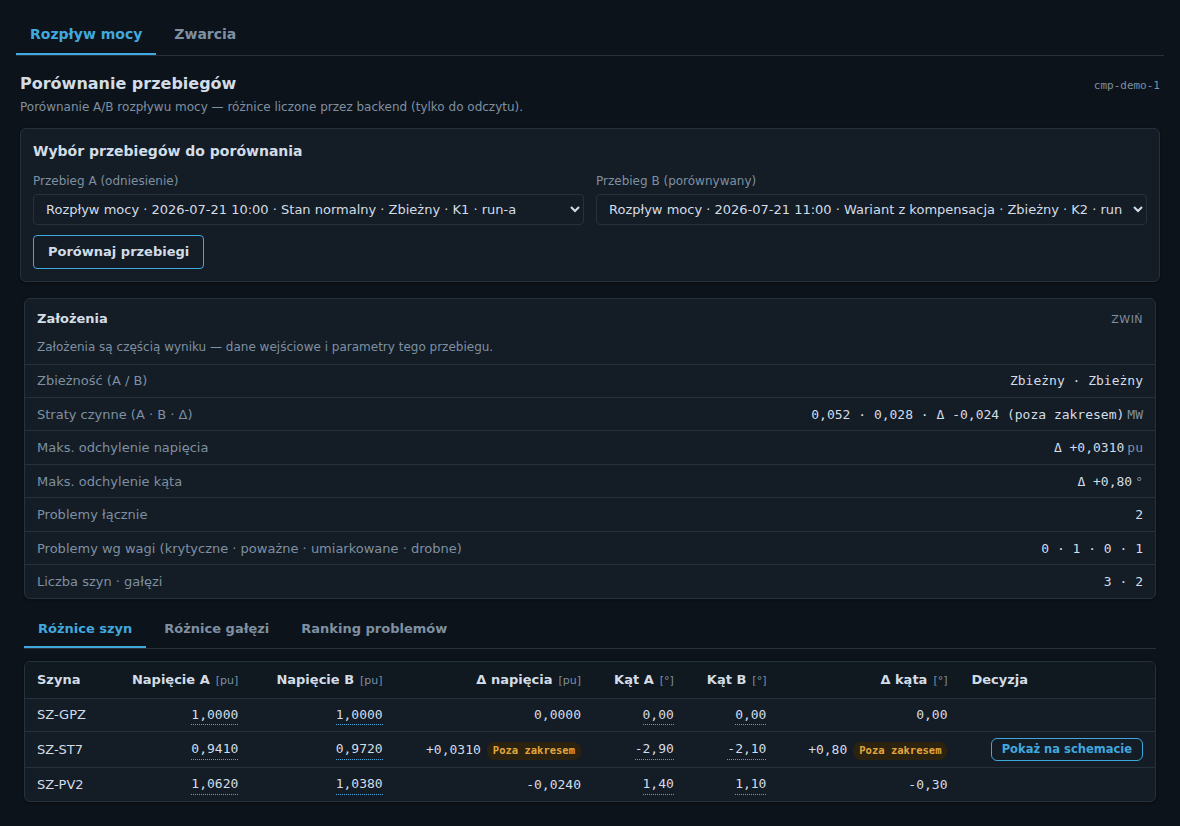
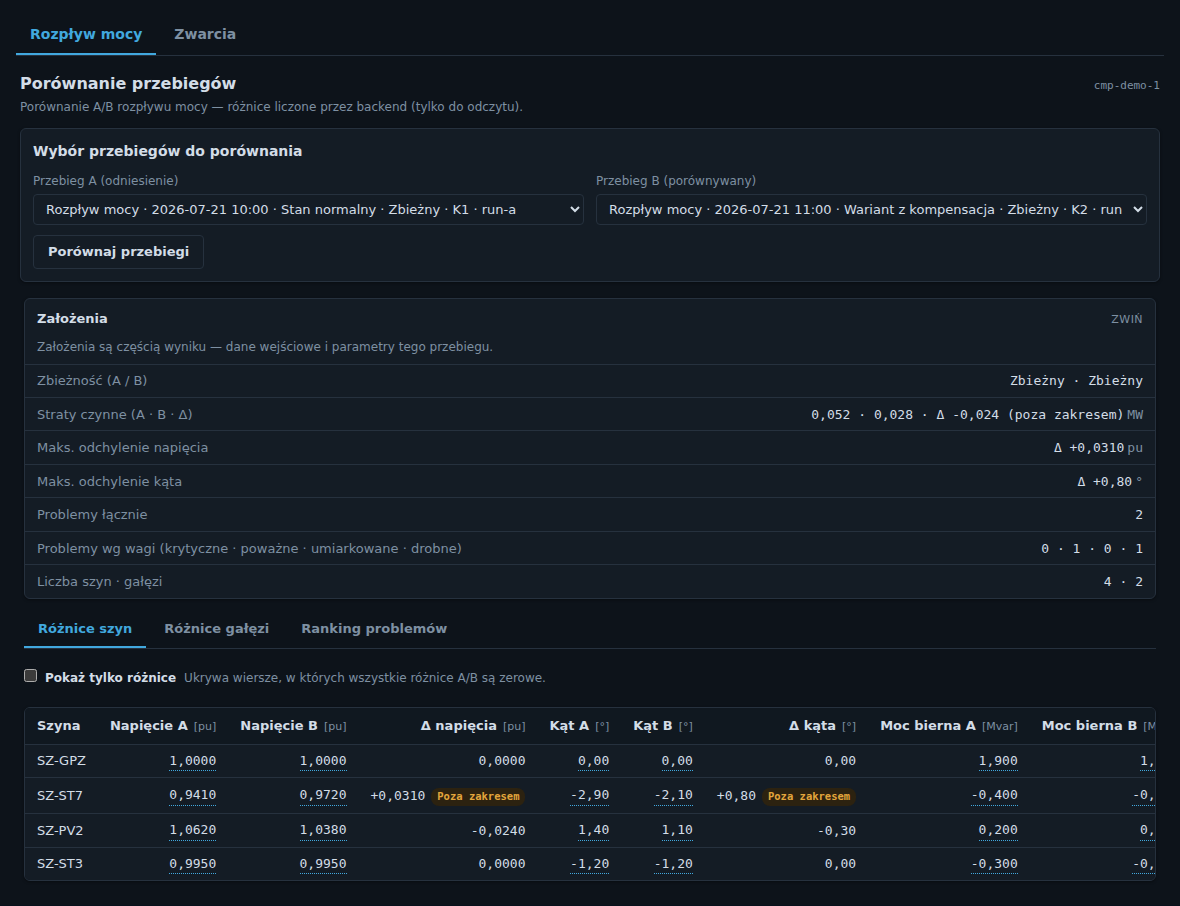
KD-1 (bramki): specy e2e, zrzuty do oceny + naprawa sceny integracyjnej powloki
Bramka 1 — `e2e/gotowosc-jedna-prawda.spec.ts` (real backend, kliki natywne):
lacznik normalnie otwarty odcina ciag od zrodla => blokada E003 wskazujaca SZYNY
=> drzewo topologii pokazuje NIEZEROWY licznik na tej samej szynie, chrom i panel
gotowosci licza DOKLADNIE tyle blokad co serwer; po zamknieciu lacznika licznik
znika, a chrom przestaje liczyc blokady (obie prawdy ida razem).
Scenariusz ZMIERZONY na zywym backendzie (sonda), nie zgadniety: segment bez
katalogu jest odrzucany (422), a blokady katalogowe wskazuja galezie — nie
szyny — wiec nie trafialyby na wezly drzewa.

Bramka 2 — `e2e/projekty-parytet.spec.ts`: wlasna nazwa i opis -> odswiez ->
zmiana projektu z potwierdzeniem -> usuniecie z potwierdzeniem, z asercjami
PRZEZ API. Sprawdzane sa OBIE sciezki kasacji zgodnie z kontraktem backendu:
projekt z przypadkiem daje 409 i UI pokazuje uczciwy powod serwera (projekt
ZOSTAJE), projekt bez zaleznosci znika z backendu.

Bramka 5 — zrzuty ZYWEJ aplikacji w obu motywach:
`gotowosc-drzewo-{dark,light}.png` (drzewo z licznikiem blokad na wezle),
`porownanie-q-{dark,light}.png` (kolumny mocy biernej + wlaczony filtr
„Pokaz tylko roznice" ukrywajacy szyne bez roznic). Do sceny „porownanie"
harnessu dolozono szyne SZ-ST3 z ZEROWYMI deltami — bez niej filtr nie mialby
czego ukryc (fixture opisuje realny ksztalt payloadu backendu).

Zero-Debt (defekt sceny odsloniety przez KD-1): `ui2/__tests__/integracja.test.tsx`
[…]

diff --git a/mv-design-pro/frontend/e2e/gotowosc-jedna-prawda.spec.ts b/mv-design-pro/frontend/e2e/gotowosc-jedna-prawda.spec.ts
@@ -44,7 +44,18 @@ type DomainOpResponse = {
 type ReadinessResponse = {
   ready: boolean;
   by_severity?: Record<string, number>;
-  issues?: Array<{ code: string; element_ref?: string | null; severity?: string }>;
+  issues?: Array<{
+    code: string;
+    element_ref?: string | null;
+    element_refs?: string[];
+    severity?: string;
+  }>;
+};
+
+type TopologySummary = {
+  spine?: Array<{ bus_ref: string }>;
+  lateral_roots?: string[];
+  adjacency?: Array<{ bus_ref: string; neighbor_ref: string }>;
 };
 
 function buildCatalogBinding(catalogNamespace: string, catalogItemId: string) {
@@ -150,7 +161,11 @@ async function otworzPowlokeZKontekstem(
   }, seed);
 
   await page.goto('/', { waitUntil: 'commit' });
-  await page.waitForSelector('[data-testid="app-ready"]', { state: 'attached', timeout: 30000 });
+  // 90 s: PIERWSZE wejscie w biegu uruchamia zimny transform vite dev calego
+  // grafu modulow (zmierzone na tym kontenerze: >30 s, kolejne wejscia ~2 s).
+  // To budzet rozruchu narzedzia, nie asercja produktu — asercje maja wlasne,
+  // krotkie limity, wiec realne zwisy UI nadal sa lapane.
+  await page.waitForSelector('[data-testid="app-ready"]', { state: 'attached', timeout: 90000 });
 }
 
 async function przeladujPowloke(page: Page): Promise<void> {
@@ -181,6 +196,34 @@ function blokadySerwera(gotowosc: ReadinessResponse): number {
   return gotowosc.by_severity?.BLOCKER ?? 0;
 }
 
+/** Szyny widoczne w drzewie topologii (te same, na których siadają liczniki). */
+async function szynyDrzewa(request: APIRequestContext, caseId: string): Promise<Set<string>> {
+  const response = await request.get(`${BACKEND_BASE}/api/cases/${caseId}/enm/topology/summary`);
+  expect(response.ok()).toBeTruthy();
+  const summary = (await response.json()) as TopologySummary;
+  const refy = new Set<string>();
+  for (const wezel of summary.spine ?? []) refy.add(wezel.bus_ref);
+  for (const ref of summary.lateral_roots ?? []) refy.add(ref);
+  for (const wpis of summary.adjacency ?? []) {
+    refy.add(wpis.bus_ref);
+    refy.add(wpis.neighbor_ref);
+  }
+  return refy;
+}
+
+/**
+ * Rozwija grupy drzewa topologii („Magistrala (od GPZ)", „Węzły izolowane") —
+ * liczniki siedza na WEZLACH, wiec bez rozwiniecia nie sa wyrenderowane.
+ * Klik w chevron = ta sama kontrolka, ktorej uzywa inzynier (klik natywny).
+ */
+async function rozwinGrupyDrzewa(page: Page): Promise<void> {
+  for (const grupa of ['magistrala', 'izolowane']) {
+    const chevron = page.getByTestId(`mvd-tree-chevron-${grupa}`);
+    if ((await chevron.count()) === 0) continue;
+    if ((await chevron.textContent())?.includes('▸')) await chevron.click();
+  }
+}
+
 test('drzewo topologii i panel gotowości pokazują TĘ SAMĄ blokadę — i gasną razem po naprawie', async ({
   page,
   request,
@@ -190,64 +233,93 @@ test('drzewo topologii i panel gotowości pokazują TĘ SAMĄ blokadę — i gas
   const seed = await createProjectAndCase(request);
   await otworzPowlokeZKontekstem(page, seed);
 
-  // --- Sieć Z BLOKADĄ: odcinki bez przypisanego typu katalogowego ------------
+  // --- Sieć gotowa: GPZ + dwa odcinki katalogowe ----------------------------
   await executeDomainOp(request, seed.caseId, 'add_grid_source_sn', {
     voltage_kv: 15.0,
     sk3_mva: 250.0,
     rx_ratio: 0.1,
     catalog_binding: buildCatalogBinding('ZRODLO_SN', SOURCE_ID),
   });
-  const op = await executeDomainOp(request, seed.caseId, 'continue_trunk_segment_sn', {
-    segment: { rodzaj: 'KABEL', dlugosc_m: 300, name: 'Odcinek 1' },
-  });
-  const segmenty = op.snapshot?.corridors?.[0]?.ordered_segment_refs ?? [];
-  expect(segmenty.length).toBeGreaterThan(0);
+  let op: DomainOpResponse | null = null;
+  for (const [idx, dlugosc] of [300, 250].entries()) {
+    op = await executeDomainOp(request, seed.caseId, 'continue_trunk_segment_sn', {
+      segment: {
+        rodzaj: 'KABEL',
+        dlugosc_m: dlugosc,
+        name: `Odcinek ${idx + 1}`,
+        catalog_binding: buildCatalogBinding('KABEL_SN', CABLE_ID),
+      },
+    });
+  }
+  const segmenty = op?.snapshot?.corridors?.[0]?.ordered_segment_refs ?? [];
+  expect(segmenty.length).toBeGreaterThan(1);
 
-  // ŹRÓDŁO 1 (serwer): gotowość ma blokady, w tym blokady konkretnych elementów.
+  // --- BLOKADA GOTOWOŚCI: łącznik normalnie otwarty odcina ciąg od źródła ---
+  // (realna sytuacja projektowa: NOP na pierwszym odcinku ⇒ wyspa bez zasilania,
+  // walidator zwraca blokadę E003 wskazującą SZYNY — czyli węzły drzewa.)
+  await executeDomainOp(request, seed.caseId, 'set_normal_open_point', {
+    switch_ref: segmenty[0],
+  });
+
+  // ŹRÓDŁO 1 (serwer): blokada istnieje i wskazuje szyny obecne w drzewie.
   const gotowoscPrzed = await pobierzGotowosc(request, seed.caseId);
   expect(gotowoscPrzed.ready).toBe(false);
   expect(blokadySerwera(gotowoscPrzed)).toBeGreaterThan(0);
-  const blokadyZElementem = (gotowoscPrzed.issues ?? []).filter(
-    (i) => i.severity === 'BLOCKER' && i.element_ref,
-  );
-  expect(blokadyZElementem.length).toBeGreaterThan(0);
+
+  const szyny = await szynyDrzewa(request, seed.caseId);
+  const blokadyNaSzynach = new Set<string>();
+  for (const issue of gotowoscPrzed.issues ?? []) {
+    if (issue.severity !== 'BLOCKER') continue;
+    for (const ref of [issue.element_ref, ...(issue.element_refs ?? [])]) {
+      if (ref && szyny.has(ref)) blokadyNaSzynach.add(ref);
+    }
+  }
+  expect(blokadyNaSzynach.size).toBeGreaterThan(0);
 
   await przeladujPowloke(page);
 
-  // ŹRÓDŁO 2 (drzewo topologii przestrzeni „Model") — licznik NIEZEROWY.
+  // ŹRÓDŁO 2 (drzewo topologii przestrzeni „Model") — licznik NIEZEROWY na tej
+  // samej szynie, o której mówi serwer. Przed KD-1 badge NIE POJAWIAL sie nigdy.
   await page.getByRole('button', { name: /^Model sieci \d$/ }).click();
-  const badge = page.locator('[data-testid^="mvd-tree-badge-"]');
-  await expect(badge.first()).toBeVisible({ timeout: 20000 });
-  const liczbaWDrzewie = await badge.count();
-  expect(liczbaWDrzewie).toBeGreaterThan(0);
+  await rozwinGrupyDrzewa(page);
+  const pierwszaSzyna = [...blokadyNaSzynach].sort()[0];
+  const badge = page.getByTestId(`mvd-tree-badge-${pierwszaSzyna}`);
+  await expect(badge).toBeVisible({ timeout: 20000 });
+  // Jeden problem = JEDEN wpis (regresja podwojnego liczenia element_ref/element_refs).
+  await expect(badge.locator('.mvd-tree-badge-blokady')).toHaveText('1');
 
-  // ŹRÓDŁO 3 (panel gotowości) — ta sama liczba blokad co u serwera.
-  await page.getByRole('button', { name: /^Gotowość \d$/ }).click();
+  // ŹRÓDŁO 3 (chrom powłoki) — ta sama liczba blokad co u serwera.
   await expect(page.getByTestId('mvd-casebar-readiness')).toContainText(
     String(blokadySerwera(gotowoscPrzed)),
   );
+
+  // Zrzut do oceny właściciela: DRZEWO topologii z licznikiem blokad na węźle
+  // (przed KD-1 ten znacznik nie pojawiał się nigdy — liczniki były zerowe).
   await zrzutObuMotywow(page, 'gotowosc-drzewo');
 
-  // --- NAPRAWA blokady: przypisanie typu katalogowego odcinkom ---------------
-  for (const issue of blokadyZElementem) {
-    await executeDomainOp(request, seed.caseId, 'assign_catalog_to_element', {
-      element_ref: issue.element_ref,
-      catalog_binding: buildCatalogBinding('KABEL_SN', CABLE_ID),
-    });
-  }
+  // ŹRÓDŁO 4 (panel gotowości) — liczy DOKŁADNIE tyle blokad co serwer.
+  await page.getByRole('button', { name: /^Gotowość \d$/ }).click();
+  await expect(page.getByTestId('mvd-gotowosc-panel')).toBeVisible({ timeout: 20000 });
+  await expect(page.getByTestId('mvd-gotowosc-blokady-calkowite')).toHaveText(
+    String(blokadySerwera(gotowoscPrzed)),
+  );
+
+  // --- NAPRAWA blokady: zamkniecie lacznika przywraca zasilanie ciagu -------
+  await executeDomainOp(request, seed.caseId, 'update_element_parameters', {
+    element_ref: segmenty[0],
+    parameters: { status: 'closed' },
+  });
 
   const gotowoscPo = await pobierzGotowosc(request, seed.caseId);
-  const blokadyPo = blokadySerwera(gotowoscPo);
-  expect(blokadyPo).toBeLessThan(blokadySerwera(gotowoscPrzed));
+  expect(blokadySerwera(gotowoscPo)).toBe(0);
 
   await przeladujPowloke(page);
   await page.getByRole('button', { name: /^Model sieci \d$/ }).click();
+  await rozwinGrupyDrzewa(page);
 
-  // Obie prawdy idą razem: mniej blokad u serwera ⇒ mniej znaczników w drzewie.
-  await expect
-    .poll(async () => badge.count(), { timeout: 20000 })
-    .toBeLessThan(liczbaWDrzewie);
-  await expect(page.getByTestId('mvd-casebar-readiness')).toContainText(
-    blokadyPo > 0 ? String(blokadyPo) : 'brak uwag',
-  );
+  // Obie prawdy gasna RAZEM: licznik znika z drzewa, chrom przestaje liczyc blokady.
+  await expect(page.getByTestId(`mvd-tree-badge-${pierwszaSzyna}`)).toHaveCount(0, {
+    timeout: 20000,
+  });
+  await expect(page.getByTestId('mvd-casebar-readiness')).not.toContainText('blokad');
 });

diff --git a/mv-design-pro/frontend/e2e/projekty-parytet.spec.ts b/mv-design-pro/frontend/e2e/projekty-parytet.spec.ts
@@ -50,6 +50,26 @@ async function otworzPowlokeBezProjektu(page: Page): Promise<void> {
   await page.getByRole('button', { name: /^Projekt \d$/ }).click();
 }
 
+/**
+ * Wiersz listy projektow po nazwie. Czekamy najpierw na KONIEC ladowania listy —
+ * inaczej klik trafia w wezel, ktory React zaraz podmienia (re-render po
+ * odswiezeniu), a zaznaczenie przepada.
+ */
+function wierszProjektu(page: Page, nazwa: string) {
+  return page.getByRole('row', { name: new RegExp(nazwa.replace(/[.*+?^${}()|[\]\\]/g, '\\$&')) });
+}
+
+async function poczekajNaListe(page: Page): Promise<void> {
+  await expect(page.getByText('Wczytywanie listy projektów…')).toHaveCount(0, { timeout: 20000 });
+}
+
+/** Zaznacza wiersz (1x klik) i potwierdza, ze zaznaczenie odblokowalo akcje listy. */
+async function zaznaczProjekt(page: Page, nazwa: string): Promise<void> {
+  await poczekajNaListe(page);
+  await wierszProjektu(page, nazwa).click();
+  await expect(page.getByTestId('mvd-projekty-usun')).toBeEnabled();
+}
+
 test('L-3 + L-4 + L-5 + L-2: własna nazwa, odświeżenie, zmiana projektu i usunięcie z potwierdzeniem', async ({
   page,
   request,
@@ -59,6 +79,7 @@ test('L-3 + L-4 + L-5 + L-2: własna nazwa, odświeżenie, zmiana projektu i usu
   const znacznik = `KD1-${Date.now()}`;
   const nazwaNowego = `Projekt ${znacznik} wlasna nazwa`;
   const nazwaDrugiego = `Projekt ${znacznik} drugi`;
+  const nazwaDoUsuniecia = `Projekt ${znacznik} do kasacji`;
 
   await otworzPowlokeBezProjektu(page);
   await expect(page.getByRole('heading', { name: 'Nowy projekt / otwórz projekt' })).toBeVisible();
@@ -87,32 +108,52 @@ test('L-3 + L-4 + L-5 + L-2: własna nazwa, odświeżenie, zmiana projektu i usu
 
   // --- L-4: odświeżenie listy pokazuje projekt utworzony poza ekranem -------
   await page.getByTestId('mvd-projekty-odswiez').click();
-  await expect(page.getByText(nazwaDrugiego)).toBeVisible({ timeout: 20000 });
+  await poczekajNaListe(page);
+  await expect(wierszProjektu(page, nazwaDrugiego)).toBeVisible({ timeout: 20000 });
 
   // Zmiana projektu wymaga POTWIERDZENIA (zmiana kontekstu pracy).
-  await page.getByText(nazwaDrugiego).dblclick();
+  await wierszProjektu(page, nazwaDrugiego).dblclick();
   await expect(page.getByTestId('mvd-projekty-zmiana-dialog')).toBeVisible();
   await page.getByTestId('mvd-projekty-zmiana-dialog-potwierdz').click();
   await expect(page.getByTestId('active-case-bar')).toContainText(nazwaDrugiego, { timeout: 30000 });
 
   // --- L-2: usunięcie projektu z potwierdzeniem ------------------------------
+  // Kontrakt backendu (`DELETE /api/projects/{id}`): projekt Z ZALEZNOSCIAMI
+  // (warianty/przypadki/obliczenia) daje 409 Conflict. Sprawdzamy OBIE sciezki —
+  // UI ma pokazac uczciwy komunikat serwera, a nie udawac usuniecie.
   await page.getByTestId('mvd-casebar-project').click();
   await page.getByTestId('mvd-projekty-odswiez').click();
-  await page.getByText(nazwaNowego).click();
+
+  // (a) projekt z wariantem bazowym (utworzony w tym tescie przez ekran) —
+  //     serwer odmawia, projekt ZOSTAJE, uzytkownik widzi powod.
+  await zaznaczProjekt(page, nazwaNowego);
+  await page.getByTestId('mvd-projekty-usun').click();
+  await expect(page.getByTestId('mvd-projekty-usun-dialog')).toBeVisible();
+  await page.getByTestId('mvd-projekty-usun-dialog-potwierdz').click();
+  await expect(
+    page.getByTestId('notification-toast').filter({ hasText: 'zależne obiekty' }).first(),
+  ).toBeVisible({ timeout: 30000 });
+  expect((await listaProjektow(request)).some((p) => p.name === nazwaNowego)).toBe(true);
+
+  // (b) projekt BEZ zaleznosci (zalozony przez API, bez przypadkow) — usuwa sie.
+  const doKasacji = await utworzProjekt(request, nazwaDoUsuniecia);
+  await page.getByTestId('mvd-projekty-odswiez').click();
+  await zaznaczProjekt(page, nazwaDoUsuniecia);
   await page.getByTestId('mvd-projekty-usun').click();
 
   // Samo żądanie NIE usuwa — dopiero potwierdzenie (operacja nieodwracalna).
   await expect(page.getByTestId('mvd-projekty-usun-dialog')).toBeVisible();
-  expect((await listaProjektow(request)).some((p) => p.name === nazwaNowego)).toBe(true);
+  expect((await listaProjektow(request)).some((p) => p.id === doKasacji.id)).toBe(true);
 
   await page.getByTestId('mvd-projekty-usun-dialog-potwierdz').click();
 
-  // ASERCJA PRZEZ API: projekt zniknął z backendu, a drugi (aktywny) został.
+  // ASERCJA PRZEZ API: projekt zniknął z backendu, a aktywny (drugi) został.
   await expect
-    .poll(async () => (await listaProjektow(request)).some((p) => p.name === nazwaNowego), {
+    .poll(async () => (await listaProjektow(request)).some((p) => p.id === doKasacji.id), {
       timeout: 30000,
     })
     .toBe(false);
   expect((await listaProjektow(request)).some((p) => p.id === drugi.id)).toBe(true);
-  await expect(page.getByText(nazwaNowego)).toHaveCount(0);
+  await poczekajNaListe(page);
+  await expect(wierszProjektu(page, nazwaDoUsuniecia)).toHaveCount(0, { timeout: 20000 });
 });

diff --git a/mv-design-pro/frontend/src/creator-harness-main.tsx b/mv-design-pro/frontend/src/creator-harness-main.tsx
@@ -1196,6 +1196,8 @@ window.fetch = (async (input: RequestInfo | URL, init?: RequestInit) => {
           { bus_id: 'SZ-GPZ', v_pu_a: 1.0, v_pu_b: 1.0, angle_deg_a: 0, angle_deg_b: 0, p_injected_mw_a: 6.4, p_injected_mw_b: 5.1, q_injected_mvar_a: 1.9, q_injected_mvar_b: 1.4, delta_v_pu: 0, delta_angle_deg: 0, delta_p_mw: -1.3, delta_q_mvar: -0.5 },
           { bus_id: 'SZ-ST7', v_pu_a: 0.941, v_pu_b: 0.972, angle_deg_a: -2.9, angle_deg_b: -2.1, p_injected_mw_a: -1.2, p_injected_mw_b: -1.2, q_injected_mvar_a: -0.4, q_injected_mvar_b: -0.1, delta_v_pu: 0.031, delta_angle_deg: 0.8, delta_p_mw: 0, delta_q_mvar: 0.3 },
           { bus_id: 'SZ-PV2', v_pu_a: 1.062, v_pu_b: 1.038, angle_deg_a: 1.4, angle_deg_b: 1.1, p_injected_mw_a: 3.9, p_injected_mw_b: 2.6, q_injected_mvar_a: 0.2, q_injected_mvar_b: 0.4, delta_v_pu: -0.024, delta_angle_deg: -0.3, delta_p_mw: -1.3, delta_q_mvar: 0.2 },
+          // KD-1 (L-14): szyna BEZ ROZNIC miedzy A i B — filtr „tylko roznice" ma ja ukryc.
+          { bus_id: 'SZ-ST3', v_pu_a: 0.995, v_pu_b: 0.995, angle_deg_a: -1.2, angle_deg_b: -1.2, p_injected_mw_a: -0.8, p_injected_mw_b: -0.8, q_injected_mvar_a: -0.3, q_injected_mvar_b: -0.3, delta_v_pu: 0, delta_angle_deg: 0, delta_p_mw: 0, delta_q_mvar: 0 },
         ],
         branch_diffs: [
           { branch_id: 'L-14', p_from_mw_a: 2.31, p_from_mw_b: 1.62, q_from_mvar_a: 0.72, q_from_mvar_b: 0.48, p_to_mw_a: -2.28, p_to_mw_b: -1.6, q_to_mvar_a: -0.7, q_to_mvar_b: -0.47, losses_p_mw_a: 0.031, losses_p_mw_b: 0.015, losses_q_mvar_a: 0.018, losses_q_mvar_b: 0.009, delta_p_from_mw: -0.69, delta_q_from_mvar: -0.24, delta_p_to_mw: 0.68, delta_q_to_mvar: 0.23, delta_losses_p_mw: -0.016, delta_losses_q_mvar: -0.009 },
@@ -1205,7 +1207,7 @@ window.fetch = (async (input: RequestInfo | URL, init?: RequestInit) => {
           { issue_code: 'VOLTAGE_DELTA_HIGH', severity: 4, element_ref: 'SZ-ST7', description_pl: 'Napiecie na szynie ST-7 rosnie o 0.031 pu po zalaczeniu kompensacji.', evidence_ref: 1 },
           { issue_code: 'LOSSES_DECREASED', severity: 2, element_ref: 'L-14', description_pl: 'Straty czynne odcinka L-14 spadaja o 16 kW.', evidence_ref: 2 },
         ],
-        summary: { total_buses: 3, total_branches: 2, converged_a: true, converged_b: true, total_losses_p_mw_a: 0.052, total_losses_p_mw_b: 0.028, delta_total_losses_p_mw: -0.024, max_delta_v_pu: 0.031, max_delta_angle_deg: 0.8, total_issues: 2, critical_issues: 0, major_issues: 1, moderate_issues: 0, minor_issues: 1 },
+        summary: { total_buses: 4, total_branches: 2, converged_a: true, converged_b: true, total_losses_p_mw_a: 0.052, total_losses_p_mw_b: 0.028, delta_total_losses_p_mw: -0.024, max_delta_v_pu: 0.031, max_delta_angle_deg: 0.8, total_issues: 2, critical_issues: 0, major_issues: 1, moderate_issues: 0, minor_issues: 1 },
         input_hash: 'hash-cmp-demo', created_at: '2026-07-22T09:00:00Z',
       }),
       { status: 200, headers: { 'Content-Type': 'application/json' } },

diff --git a/mv-design-pro/frontend/e2e/flow-ekspert-screenshot.spec.ts b/mv-design-pro/frontend/e2e/flow-ekspert-screenshot.spec.ts
@@ -114,6 +114,20 @@ test.describe('flow-ekspert:screenshot', () => {
           await page.getByTestId('mvd-por-przycisk').click();
           await expect(page.getByTestId('mvd-por-wynik')).toBeVisible();
           await expect(page.getByTestId('mvd-por-wynik')).toContainText('SZ-ST7');
+
+          // KD-1 (L-12 + L-14): kolumny mocy biernej z payloadu backendu oraz
+          // filtr "tylko roznice". Zrzut do oceny wlasciciela pokazuje OBIE
+          // zdolnosci naraz (filtr wlaczony ukrywa szyne bez roznic SZ-ST3).
+          await expect(page.getByTestId('mvd-por-wynik')).toContainText('Moc bierna A');
+          await expect(page.getByTestId('mvd-por-wynik')).toContainText('SZ-ST3');
+          await page.getByTestId('mvd-por-filtr-roznice').check();
+          await expect(page.getByTestId('mvd-por-wynik')).not.toContainText('SZ-ST3');
+          await page.waitForTimeout(200);
+          const qPath = path.join(OUTPUT_DIR, `porownanie-q-${theme}.png`);
+          await root.screenshot({ path: qPath });
+          expect(fs.existsSync(qPath)).toBe(true);
+          // Powrot do stanu bazowego sceny — zrzut zbiorczy bez zmian.
+          await page.getByTestId('mvd-por-filtr-roznice').uncheck();
         } else {
           // R2-B: pre-selekcja wezla z deep-linku widoczna w polu wyboru.
           await expect(page.getByTestId('mvd-komp-wezel')).toHaveValue('SZ-ST7');

diff --git a/mv-design-pro/frontend/src/ui2/__tests__/integracja.test.tsx b/mv-design-pro/frontend/src/ui2/__tests__/integracja.test.tsx
@@ -103,6 +103,12 @@ describe('E1.4 — integracja powłoki (shell + nav + inspector + events)', () =
             json: async () => ({ projects: [], total: 0 }),
           } as unknown as Response;
         }
+        if (url.includes('/enm/topology/summary')) {
+          // KD-1: drzewo topologii dostaje dane Z SERWERA (`useZasilanieDrzewaTopologii`)
+          // — scena zasila TEN endpoint zamiast wstrzykiwac store'a bezposrednio,
+          // wiec test ćwiczy realna sciezke danych powloki.
+          return { ok: true, status: 200, json: async () => summaryZGpz() } as unknown as Response;
+        }
         if (url.includes('/api/study-cases/project/') && url.endsWith('/active')) {
           return { ok: true, status: 204, json: async () => null } as unknown as Response;
         }
@@ -122,6 +128,10 @@ describe('E1.4 — integracja powłoki (shell + nav + inspector + events)', () =
       useAppStateStore.setState({
         activeProjectId: 'projekt-testowy-id',
         activeProjectName: 'projekt-testowy',
+        // KD-1: topologia jest danymi PRZYPADKU — bez aktywnego przypadku
+        // powloka uczciwie nie ma czego pokazac w drzewie.
+        activeCaseId: 'przypadek-testowy-id',
+        activeCaseName: 'Wariant bazowy',
       });
     });
   });
